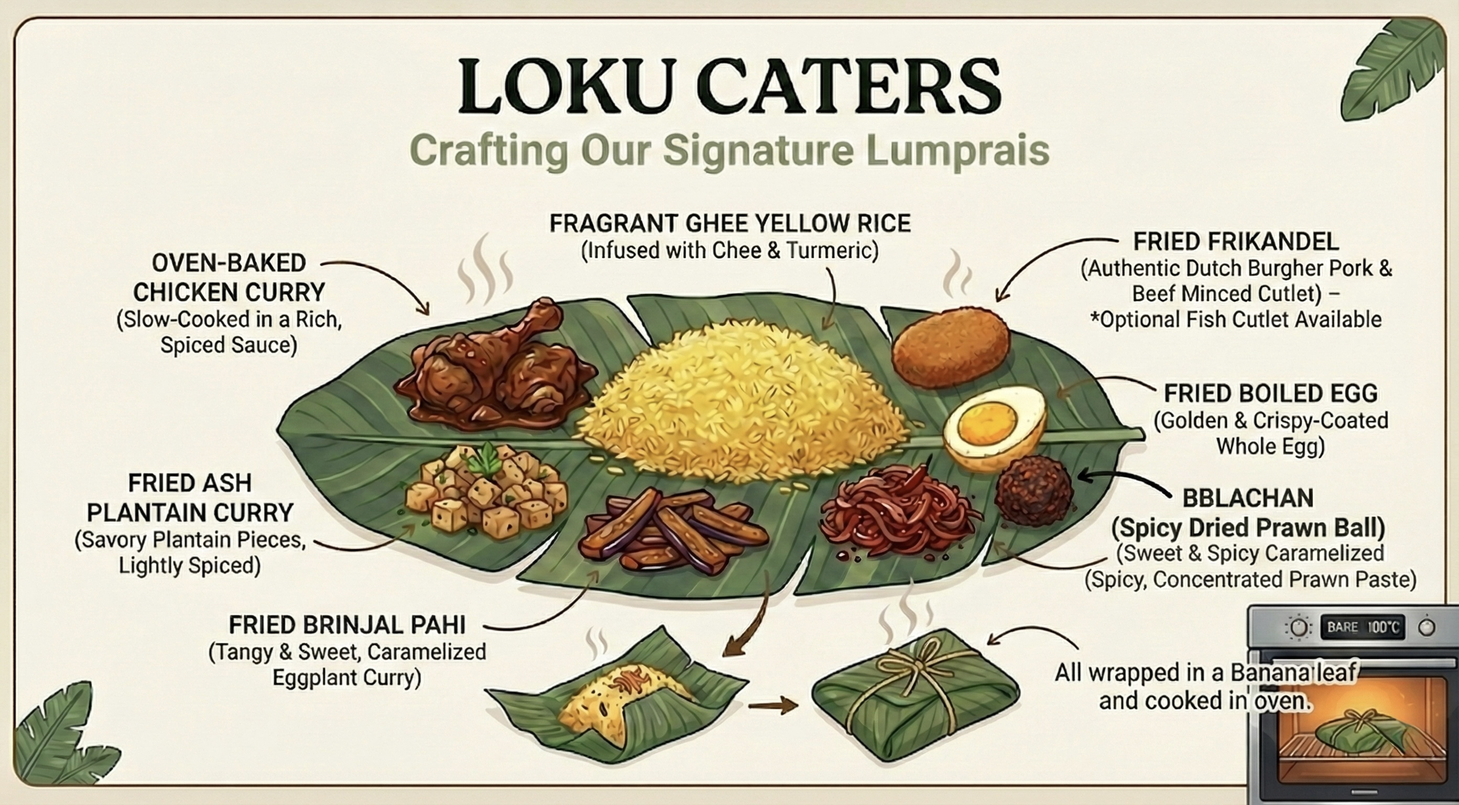
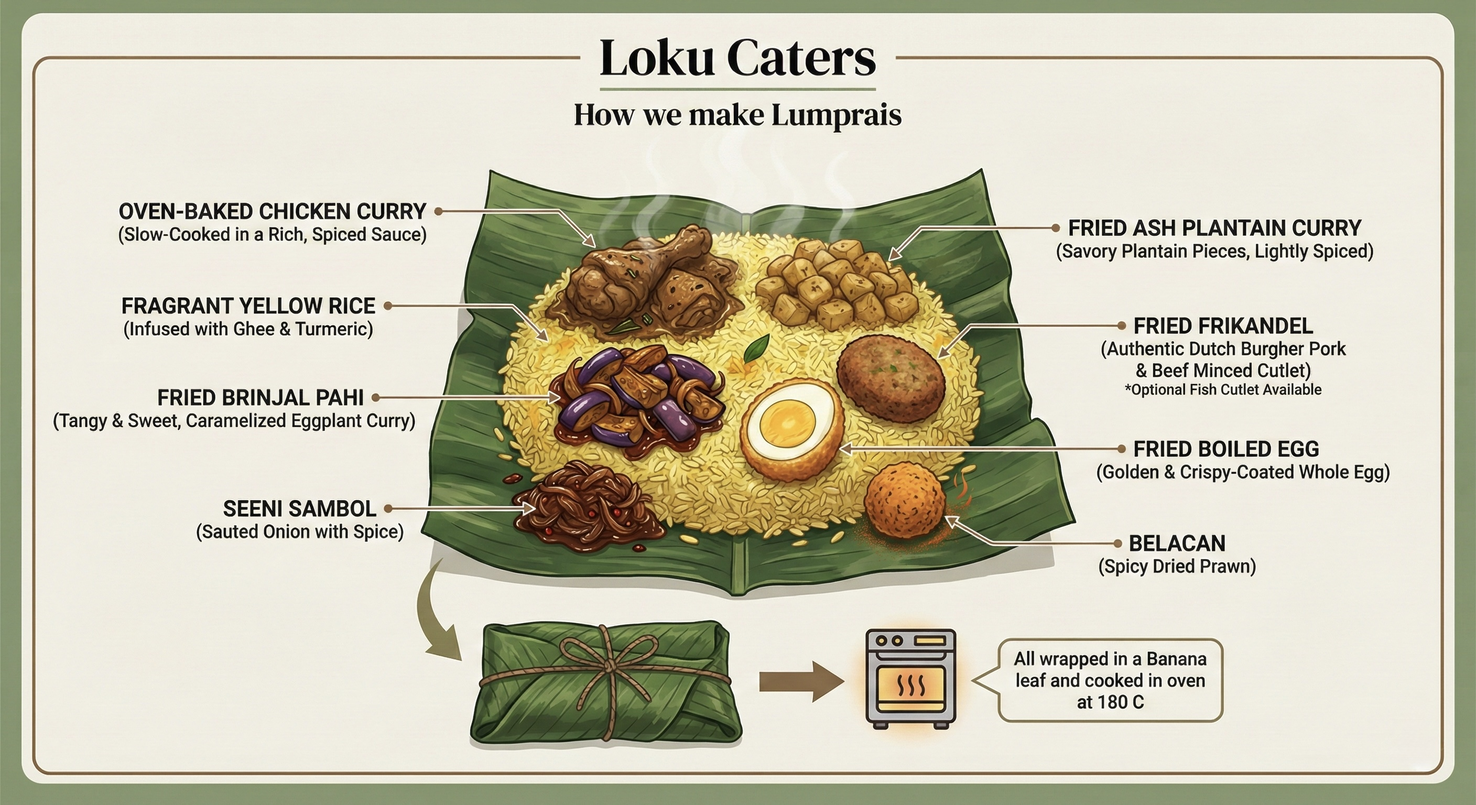
feat: change lamprais pic

diff --git a/frontend/src/components/HeroSection.tsx b/frontend/src/components/HeroSection.tsx
@@ -112,7 +112,7 @@ function LampraisModal({ onClose }: { onClose: () => void }) {
         {/* Image */}
         {/* eslint-disable-next-line @next/next/no-img-element */}
         <img
-          src="/assets/img/lumprais-how-its-made-original-compressed.jpg"
+          src="/assets/img/lumprais-how-its-made-compressed.png"
           alt="How Lamprais is made - a traditional Sri Lankan dish of rice and accompaniments wrapped in banana leaf"
           style={{ display: "block", width: "100%", height: "auto" }}
         />
